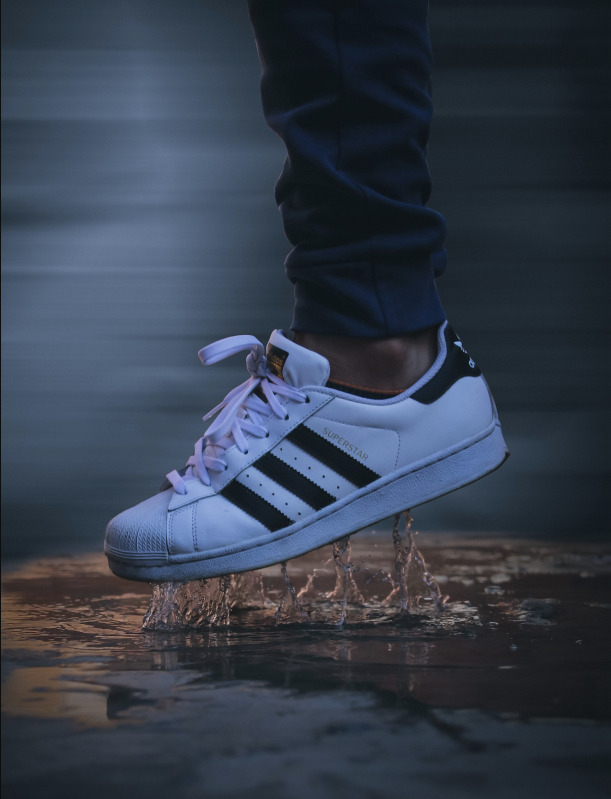
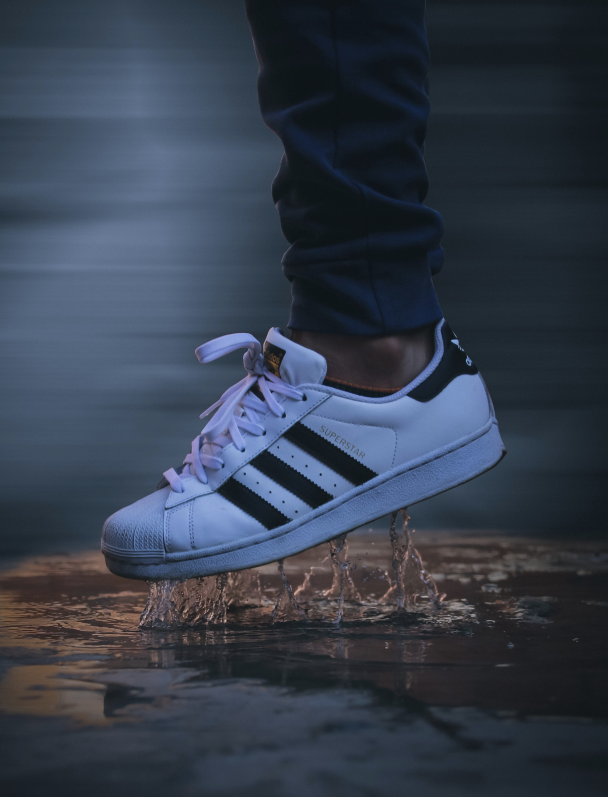
Reformate Landing Page Layout
Removed clip path from desktop version of hero image. Reassigned the division of the screen between the hero image and the info text container.

diff --git a/css/styles.css b/css/styles.css
@@ -183,7 +183,7 @@ input {
     }
 
     .mobile-container {
-        width: 45vw;
+        width: 55vw;
         display: flex;
         flex-direction: column;
         justify-content: space-around;
@@ -229,11 +229,12 @@ input {
     .hero-image-desktop {
         display: inline-block;
         height: 100%;
-        width: 55vw;
+        width: 45vw;
     }
 
     .hero-image-desktop img {
-        clip-path: polygon(0 0, 100% 0, 100% 100%, 30% 100%);
+        /* clip path was for original version; not used in alternate version */
+        /* clip-path: polygon(0 0, 100% 0, 100% 100%, 30% 100%); */
         height: 100%;
         object-fit: cover;
         width: 100%;
